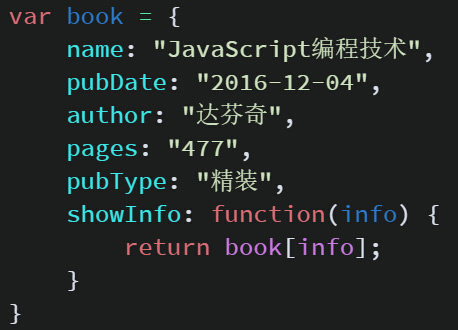
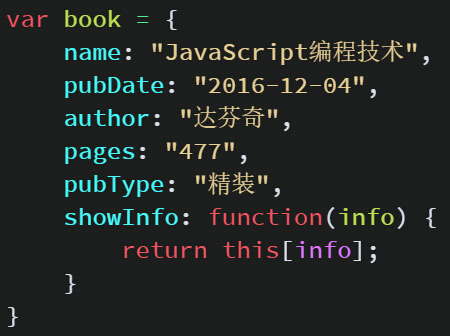
微调了JS数组的内容，对JS对象一章进行了整理，并新增、修改了一些内容

diff --git a/html-pages/javascript/javascript-08.html b/html-pages/javascript/javascript-08.html
@@ -1,7 +1,7 @@
 <root data-root="数据类型--内置对象">
-    <!-- 对象详解 -->
+    <!-- 对象概述 -->
     <section class="mt0">
-        <h3>对象详解</h3>
+        <h3>对象概述</h3>
         <p>对象（object）是JavaScript的核心概念，也是最重要的数据类型。JavaScript的所有数据都可以被视为对象。简单说，所谓对象，就是一种无序的数据集合，由若干个“键值对”（key-value，亦称属性名值对、成员等）构成。下面展示了两种对象的书写方法：</p>
         <code class="indent">
             <img src="img/code/jscode/code-js-148.jpg">
@@ -18,16 +18,22 @@
         <code class="indent">
             <img src="img/code/jscode/code-js-151.jpg">
         </code>
-        <p>对象允许的值可以是JavaScript种的任何类型（6种类型），可以是一个表达式，也可以为一个函数，当一个属性的值为一个函数的时候，通常把这个对象的属性称作“方法”（如操作字符串或数组的各种方法），它可以像使用其它对象内的属性一样使用，但是需要在后方加上一对括号。</p>
+	</section>
+    <section>
+    	<h3>对象的属性值类型</h3>
+        <p>对象允许的值可以是JavaScript种的任何类型（6种类型），可以是一个表达式，也可以为一个函数，当一个属性的值为一个函数的时候，通常把这个对象的属性称作“<em>方法</em>”（如操作字符串或数组的各种方法），它可以像使用其它对象内的属性一样使用，但是需要在后方加上一对括号。</p>
         <code class="indent">
             <img src="img/code/jscode/code-js-152.jpg">
         </code>
-        <p>定义了这样一个包含了对象之后，就可以在程序中使用了（作用域仍然只分全局和函数的作用域）。为了直观展现运行结果，我们依次对上面定义的这个对象的各个属性在控制台运行程序后进行访问或使用。</p>
+        <p>定义了这样一个包含了各种类型数据的对象之后，就可以在程序中使用了（作用域仍然只分全局和函数的作用域）。为了直观展现运行结果，我们依次对上面定义的这个对象的各个属性在控制台运行程序后进行访问或使用。</p>
         <code class="indent">
             <img src="img/code/jscode/code-js-153.jpg">
         </code>
         <p>可以发现，我们现在对象中定义属性直接可以被像一个变量一样使用了，只不过是使用的时候多了一个点“.”，将普通变量的“=”号换成了“:”号而已，除此之外基本没有任何不同。</p>
-        <p>当然，和作为数组形式展现的对象一样，普通对象也可以先声明再设置属性。</p>
+	</section>
+    <section>
+    	<h3>对象的赋值</h3>
+        <p>作为数组形式展现的对象一样，普通对象也可以先声明再设置属性。</p>
         <code class="indent">
             <img src="img/code/jscode/code-js-154.jpg">
         </code>
@@ -39,6 +45,9 @@
         <code class="indent">
             <img src="img/code/jscode/code-js-156.jpg">
         </code>
+	</section>
+    <section>
+    	<h3>对象属性值读取的两种方式</h3>
         <p>对于对象属性的读取，主要有两种方式，一种是“对象.属性”的格式，另一种是“对象[属性]”的格式。但是这两种方法在有些情况下并非等价的，就是如果属性是<em>数值型</em>的话不能采用第一种加“.”的形式，只能写成第二种形式。如果属性是<em>字符串</em>的话，两种形式都可以使用，但是使用第二种的话需要再在方括号内加上一对引号，否则会被视作一个变量。正确示例：</p>
         <code class="indent">
             <img src="img/code/jscode/code-js-157.jpg">
@@ -57,16 +66,50 @@
             <img src="img/code/jscode/code-js-160.jpg">
         </code>
         <p>如果讲上例中的“book[link]”换成“book.link”的话，该功能是无法完成的，无论配置任何参数返回的都将是undefined。正是因为使用“[]”的形式有接收变量的作用，这为我们以后封装具有对象的函数提供了便利。但若所使用对象不涉及到变量，还是建议使用“.”的形式对属性访问更加便捷高效。</p>
+        <p>看完上面的示例后，请自己做一个试验，将“book”这个对象仿照的写一遍，然后将对象内的“showInfo()”这个方法内的“book”一词改为“this”，然后传递对象内其它的属性名的字符串作为参数调用该方法，观察是什么样的结果。</p>
         <p>对于使用“[]”访问对象的属性还有一点需要补充，就是若对象是一个数组的话还可以使用<em>运算表达式</em>去访问数组内的内容。这对于实现一些复杂的需求会有一定程度的帮助，我们看来这几个简单例子：</p>
         <code class="indent">
             <img src="img/code/jscode/code-js-161.jpg">
         </code>
         <p>示例中最后三个完全一样的表达式“arr[Math.round(Math.random() * (arr.length - 1))]”得出的结果却不相同，是因为里面用到了<em>Math</em>函数内的取0~1之间的随机数方法<em>random()</em>，外层用该函数的“四舍五入”方法<em>round()</em>保证取出的数是整数。整个“[]”取出的数为整个数组下标从0到length-1（最大下标）之间的随机下标。</p>
+	</section>
+    <section>
+    	<h3>属性名数组Object.keys()</h3>
         <p>和查看所有数组的下标一样，利用<em>Object.keys(obj)</em>方法可以查看对象所有的属性名，返回的结果是一个数组。</p>
         <code class="indent">
             <img src="img/code/jscode/code-js-162.jpg">
         </code>
         <p>通过上面的示例可以发现，利用这个内置对象Object的keys()方法，我们可以“玩出”非常多的花样，不仅可以像数组那样通过“length”属性（对象本身是没有length这个属性的）获取到对象的属性个数，还可以像数组那样，通过下标去访问对象内的属性值。单是获取对象属性个数这一点来讲，这个方法会被我们用“计数器”+“for-in遍历”要显得“干净”得多。</p>
+        <p>现在我们通过在对象的原型链上添加一个“eq()”方法来模仿像<em>jQuery</em>那样通过“eq(index)”方法（方法内的“index”表示对象下标）来访问jQuery对象的指定元素。仍旧采用上面的“book”对象进行演示：</p>
+        <code class="indent">
+            <img src="img/code/jscode/code-js-296.jpg">
+        </code>
+        <p>通过示例可以发现，现在的对象已经可以使用下标进行访问了，再加上通过Object.keys()方法本身就可以间接去获取对象的属性个数（获取到属性名集合的长度属性），这就使得通过普通的循环语句（非for-in语句）来遍历一个对象成为了可能。</p>
+	</section>
+	<!-- 章节练习 -->
+    <section class="unitPractice">
+        <h3>&lt;章节练习一&gt;</h3>
+        <p>声明一个名为“roleInfo”的对象：</p>
+        <p>1、属性名分别为：id、name、attack、defense、speed、hp、mp、skill；</p>
+        <p>2、值分别是：lol-119、"德玛西亚之力"、36、42、66、2400、null、["坚韧（被动）","致命打击","勇气","审判","德玛西亚正义"];</p>
+        <p>3、通过在原型链上添加一个“eq()”方法，然后通过Object.keys()方法来获取对象的“长度”，最后通过for循环将对象内的所有值输出在页面内一个id为“galen”的&lt;div&gt;里。</p>
+        <p>&lt;注意&gt;若值为“null”，在页面内应该显示为“无”，若值为一个数组（通过方法“Array.isArray()”进行判定），需要将数组内的项单独输出来，而不是输出整个数组。</p>
+        <p>页面中的DIV结构如下：</p>
+		<pre>
+&lt;div id="galen"&gt;
+	&lt;label&gt;ID：&lt;/label&gt;&lt;span&gt;&lt;span&gt;
+	&lt;label&gt;角色名：&lt;/label&gt;&lt;span&gt;&lt;span&gt;
+	&lt;label&gt;攻击力：&lt;/label&gt;&lt;span&gt;&lt;span&gt;
+	&lt;label&gt;防御力：&lt;/label&gt;&lt;span&gt;&lt;span&gt;
+	&lt;label&gt;速度：&lt;/label&gt;&lt;span&gt;&lt;span&gt;
+	&lt;label&gt;血量：&lt;/label&gt;&lt;span&gt;&lt;span&gt;
+	&lt;label&gt;魔法：&lt;/label&gt;&lt;span&gt;&lt;span&gt;
+	&lt;label&gt;技能：&lt;/label&gt;&lt;span&gt;&lt;span&gt;;span&gt;&lt;span&gt;;span&gt;&lt;span&gt;span&gt;&lt;span&gt;span&gt;&lt;span&gt;
+&lt;/div&gt;
+		</pre>
+    </section>
+    <section>
+    	<h3>对象的“增、删、改、查”</h3>
         <p>对于数据操作来讲，无非就是四种操作“增、删、改、查”。对于对象来讲，“增”就是为一个对象新增一个之前不存在的属性名，然后进行赋值；“改”就是对对象已经存在的属性名进行从新赋值，达到一个修改原始对象的效果；而“查”就是简单地通过对象的属性名访问即可（当然也可以通过对“[]”传变量实现访问）。这些我们之前都讲解过，但对于“<em>删</em>”来讲稍微有些特殊，需要用到关键字“<em>delete</em>”进行操作，为了说明问题，我们还是对这些操作进行回顾并在其中列出“delete”的使用方式。原数组如下：</p>
         <code class="indent">
             <img src="img/code/jscode/code-js-163.jpg">
@@ -105,17 +148,37 @@
                 </code>
             </dd>
         </dl>
-        <p>当不知一个对象的属性是否声明过，使用<em>in</em>运算符来进行判断是再好不过的选择了（选用对象仍是之前的“书籍”）。</p>
+	</section>
+    <section>
+        <h3>判断一个属性是否存在于对象</h3>
+        <p>当不知一个对象的属性是否声明过（或不知某个属性是否存在于指定的对象内），使用“<em>in</em>”运算符来进行判断是再好不过的选择了（选用对象仍是之前的“书籍”）。</p>
         <code class="indent">
             <img src="img/code/jscode/code-js-168.jpg">
         </code>
+        <p>in运算符返回一个布尔值，它不区分该属性是对象自身的属性，还是继承的属性。若要区分该属性是实例化对象的属性，还是继承而来的属性需要使用“hasOwnProperty()”方法，该方法返回的仍然是一个布尔值。例如现在我们先给对象原型链添加一个属性，并创建一个对象：</p>
+        <code class="indent">
+            <img src="img/code/jscode/code-js-297.jpg">
+        </code>
+        <p>然后在控制台中输出所有的属性值，然后再通过该方法进行判断：</p>
+        <code class="indent">
+            <img src="img/code/jscode/code-js-298.jpg">
+        </code>
+        <p>通过观察示例可以发现，虽然无论是对象本身的属性还是继承而来的属性都可以正常输出结果值，但是区别在于本来存在于对象中的属性“brand”和“price”通过hasOwnProperty()方法判断后返回的布尔值是true，而通过对象的原型链继承而来的属性“effect”执行方法后返回的布尔值为false。</p>
+        <p>这样一来，我们就可以在执行for-in遍历语句的时候决定是否应该对继承而来的属性进行指定的操作了。</p>
+    </section>
+    <!-- 章节练习 -->
+    <section class="unitPractice">
+        <h3>&lt;章节练习二&gt;</h3>
+        <p>模仿上例，为对象原型链添加一个方法，并自定义一个对象：</p>
+        <p>1、通过for-in遍历语句在控制内输出对象的全部属性的值；</p>
+        <p>2、通过for-in遍历语句在控制内输出对象的非继承属性的值。</p>
     </section>
     <!-- 对象操作 -->
     <section>
-        <h3>对象操作</h3>
+        <h3>对象的原型链</h3>
         <p>JavaScript原生提供一个Object对象，所有其他对象都继承自这个对象。Object本身也是一个构造函数，可以直接通过它来生成新对象。基本语法为：</p>
         <p><em>var obj = new Object();</em></p>
-        <p>对象型数据有一个比较有趣的特点就是它具有<em>原型类</em>（prototype），任何对象都能通过原型类来拓展自己的功能，这一点，我们在“数组操作”一节中的“数组求和”功能里就已经见识到了。数组之所以可以通过原型类来扩展自己的功能，是因为数组本身也属于“对象”。我们再来看一个关于内置对象通过原型类扩展自己的<em>方法</em>的简单例子，基本代码如下：</p>
+        <p>对象型数据有一个比较有趣的特点就是它具有<em>原型链</em>（prototype，也有称“原型类”），任何对象都能通过原型链来拓展自己的功能。我们来看一个关于内置对象通过原型链扩展自己的<em>方法</em>的简单例子，基本代码如下：</p>
         <code class="indent">
             <img src="img/code/jscode/code-js-169.jpg">
         </code>
@@ -123,13 +186,16 @@
         <code class="indent">
             <img src="img/code/jscode/code-js-170.jpg">
         </code>
-        <p>上面的代码中，首先是给内置对象Object添加了一个原型类的方法，该方法内“keys()”方法的作用我们在上一节“对象详解”中已经学习过，是用于讲对象的属性名进行返回，然后形成一个数组。而在该方法之前有一个关键字<em>this</em>，它表示使用该原型方法的对象的本身，如“obj1”在使用“showAttr()”方法时，“this”指的就是“obj1”。</p>
-        <p>showAttr()这个方法是我们的一个自定义名称，我们可以根据需要，给原型类添加任意的自定义方法。这样一来，以后所有的新建对象都可以使用这些方法，大大地减少了代码量和也减少了对方法参数的配置。可以把原型类内我们自定义新建的方法理解为对象的公共方法，任何对象在同一个作用域内都可以对其进行使用。</p>
-        <p>其实，也并非只有数组（Array）和普通对象（Object）才是所谓的“对象”，可以将JavaScript任何允许的数据类型放置于<em>Object()</em>方法的参数内都可以转换成为一个对象，这样的对象称作“<em title="变量的赋值操作是对值的引用">包装对象</em>”，这在我们上一章的课程内。</p>
+        <p>上面的代码中，首先是给内置对象Object添加了一个原型链的方法，该方法内“keys()”方法的作用我们在上一节“对象详解”中已经学习过，是用于讲对象的属性名进行返回，然后形成一个数组。而在该方法之前有一个关键字<em>this</em>，它表示使用该原型方法的对象的本身，如“obj1”在使用“showAttr()”方法时，“this”指的就是“obj1”。</p>
+        <p>showAttr()这个方法是我们的一个自定义名称，我们可以根据需要，给原型链添加任意的自定义方法。这样一来，以后所有的新建对象都可以使用这些方法，大大地减少了代码量和也减少了对方法参数的配置。可以把原型链内我们自定义新建的方法理解为对象的公共方法，任何对象在同一个作用域内都可以对其进行使用。</p>
+	</section>
+    <section>
+        <h3>内置对象</h3>
+        <p>其实，也并非只有数组（Array）和普通对象（Object）才是所谓的“对象”，可以将JavaScript任何允许的数据类型放置于<em>Object()</em>方法的参数内都可以转换成为一个对象，这样的对象称作“<em title="变量的赋值操作是对值的引用">包装对象</em>”，这在我们上一章的课程里已经见过了。</p>
         <code class="indent">
             <img src="img/code/jscode/code-js-171.jpg">
         </code>
-        <p>但如果，使用Object()方法为参数内配置一个JavaScript的“<em title="变量的赋值操作是对内存地址的引用">内置对象</em>”，那返回的就是该对象本身。</p>
+        <p>但如果使用Object()方法为参数内配置一个数据，或该数据的变量，如果返回的是该数据本身的值，那我们将其称作“<em title="变量的赋值操作是对内存地址的引用">内置对象</em>”。</p>
         <code class="indent">
             <img src="img/code/jscode/code-js-172.jpg">
         </code>
@@ -145,17 +211,21 @@
         <code class="indent">
             <img src="img/code/jscode/code-js-175.jpg">
         </code>
-        <p>调用我们自定义的原型类方法后，在控制台中的返回值结果分别如下：</p>
+        <p>调用我们自定义的原型链方法后，在控制台中的返回值结果分别如下：</p>
         <code class="indent">
             <img src="img/code/jscode/code-js-176.jpg">
         </code>
+        <p>这样一来，就可以通过我们给对象原型链新增的这个isObject()方法来判断一个操作数或变量是否为一个“内置对象”了。上面的自定义方法，是将需要判定对象类型的变量放置于参数内，思考一下若需要将变量或对应的数据放置于方法之前作为一个对象的操作形式应该这么做（即：obj.isObject()的格式）。</p>
+	</section>
+    <section>
+        <h3>数据类型的精确判定</h3>
         <p>上一章我们在讲解“字符串操作”的时候提到过一个方法“<em>String()</em>”，它可以将任何类型的数据都转换成字符串，但在转换数组和对象时，出现了点特殊情况（可以自行回顾该章节的内容），即其它类型的数据都变成了和原始声明时基本一样的数据，只是加上了引号，而对象出现的结果却是“<em>[object Object]</em>”，其实这里的第一个值表示该值是一个对象（之前提到过，JavaScript中任何值都可以成为对象），第二个值为该类型值的构造函数（有些对象是通过包装而来的）。当然，除了将需要转换字符串的内容放置于String()方法的参数内，还能通过对象属性的方式来使用该方法，它的写法是“toString()”，不需要配置参数。</p>
         <code class="indent">
             <img src="img/code/jscode/code-js-177.jpg">
         </code>
-        <p>可以从运行结果中看出来，这和我们上次使用的“String()”方法得出的结果完全一样。但其实作为一个对象的属性的“toString()”方法来讲自然会有一些不同的。它其实是对象原型类的一个方法，语法如下：</p>
+        <p>可以从运行结果中看出来，这和我们上次使用的“String()”方法得出的结果完全一样。但其实作为一个对象的属性的“toString()”方法来讲自然会有一些不同的。它其实是对象原型链的一个方法，语法如下：</p>
         <p><em>Object.prototype.toString</em></p>
-        <p>既然是原型类的方法，那很多时候它们还有自己的“<em title="内部的实现相当于一个函数闭包">子方法</em>”，如“<em>call()</em>”方法。基本使用方法如下：</p>
+        <p>既然是原型链的方法，那很多时候它们还有自己的“<em title="内部的实现相当于一个函数闭包">子方法</em>”，如“<em>call()</em>”方法。基本使用方法如下：</p>
         <code class="indent">
             <img src="img/code/jscode/code-js-178.jpg">
         </code>
@@ -179,10 +249,11 @@
     </section>
     <!-- 章节练习 -->
     <section class="unitPractice">
-        <h3>&lt;章节练习&gt;</h3>
+        <h3>&lt;章节练习三&gt;</h3>
         <p>通过已经学习过的方法完成以下数组和对象的“克隆”，克隆后的数组和对象的值发生改变后，对原数组和对象的值不产生影响：</p>
         <p>1、数组：["HTML","CSS","JavaScript"]；</p>
-        <p>2、对象：{name: "JS", fullName: "JavaScript", duty: "行为控制"}</p>
+        <p>2、对象：{name: "JS", fullName: "JavaScript", duty: "行为控制"}；</p>
+        <p>3、实现一个自定义的方法用于判定一个变量是否是一个内置对象，需要使用“data.isBuiltinObject()”的形式，其中data为你需要判断的数据。</p>
     </section>
 </root>
 

diff --git a/css/common.min.css b/css/common.min.css
@@ -1,1 +1,1 @@
-@charset "UTF-8";.module-welcome,code,iframe.codeEffect,iframe.codeEffect-unauto,output,root[data-root]{-webkit-box-sizing:border-box;-moz-box-sizing:border-box;box-sizing:border-box}.content .loading,.module-welcome,.module-welcome p{position:absolute}.content .loading span,author,code img,iframe.codeEffect,iframe.codeEffect-unauto,img.dateImg,output,root[data-root],root[data-root] ul.corresNouns>li>span{display:block}a,body,html,input,textarea{font-family:"微软雅黑",arial}.module-welcome{width:560px;height:360px;background-color:#fef9f8;background-position:center;border:1px solid #fff;border-right-color:#e3e4e5;border-bottom-color:#e3e4e5;border-radius:300px 3px;text-align:left;color:#3c4d86;left:50%;top:50%;margin-left:-320px;margin-top:-200px;box-shadow:0 6px 16px rgba(34,34,34,.34);animation:rotateWelcome 3s linear infinite alternate}@keyframes rotateWelcome{0%{transform:rotate(15deg);background-color:#fef9f8}50%{transform:rotate(0);background-color:#f3f9f8}100%{transform:rotate(-15deg);background-color:#e3f9f1}}@-webkit-keyframes rotateWelcome{0%{transform:rotate(15deg);background-color:#fef9f8}50%{transform:rotate(0);background-color:#f3f9f8}100%{transform:rotate(-15deg);background-color:#e3f9f1}}root[data-root] .module-welcome p{width:auto;text-indent:1em;font-size:48px;line-height:52px;font-family:"方正舒体","华文行楷","楷体";padding:48px;top:50%;margin-top:-98px}root[data-root] .module-welcome p.longTxt{margin-top:-138px}.mt-1{margin-top:-1px}.mt0{margin-top:0}.mt10{margin-top:10px}.mt15{margin-top:15px}.mt20{margin-top:20px}.mt25{margin-top:25px}.mt30{margin-top:30px}root[data-root]{width:100%;min-height:100%;background:url(../img/bgi/bg-content.jpg) #fff;padding:12px 12px 150px}root[data-root] section{margin-top:50px}root[data-root] section:first-of-type{margin-top:0}root[data-root] h3{line-height:30px;font-size:32px;margin-top:10px;margin-bottom:10px;color:#11278a}root[data-root] h4{line-height:30px;font-size:22px;margin-top:14px;margin-bottom:10px;color:#333}root[data-root] p{line-height:1.48;text-indent:2em;font-size:20px;color:#555;margin:18px 0}root[data-root] p.noindent{text-indent:0}root[data-root] dl.attrExplain dd em,root[data-root] p cite em,root[data-root] p em,root[data-root] ul li em{font-size:24px;color:#0b933b}root[data-root] p cite{color:#8da7b9}root[data-root] p cite.indent{margin-left:2em;margin-right:2em;display:block}root[data-root] a{text-decoration:none;color:#136ded}root[data-root] section.unitPractice{background-color:#41280e;border:2px solid #654523;border-right:2px solid #1c0f02;border-bottom:2px solid #1c0f02;border-radius:15px;padding:12px 20px;color:#f2ebe7;box-shadow:0 10px 8px rgba(123,100,86,.33);margin-top:100px}root[data-root] section.unitPractice h3,root[data-root] section.unitPractice h4,root[data-root] section.unitPractice p{color:#f2ebe7}root[data-root] section.unitPractice h3{border-bottom:1px dotted #fff;font-size:22px}root[data-root] section.unitPractice h4{font-size:22px}root[data-root] section.unitPractice p{margin-top:.5em;margin-bottom:.5em;text-indent:0}root[data-root] dl.attrExplain{margin-left:4em;margin-right:4em}root[data-root] dl.attrExplain dt{color:#2a90d1;background:url(../img/content/sign-dt.png) 0 8px no-repeat;text-indent:24px;font-size:24px;margin-left:-24px;margin-bottom:4px}root[data-root] dl.attrExplain dd{font-size:20px;margin-bottom:12px}root[data-root] ul{list-style-image:url(../img/content/sign-dt-ul.png);margin-top:4px;margin-bottom:4px;list-style-position:outside;margin-left:1.6em}root[data-root] ul.indent{margin:0 4em}root[data-root] ul li{line-height:160%;font-size:20px}root[data-root] ul.corresNouns{list-style:none}root[data-root] ul.corresNouns>li{width:340px;height:30px;position:relative;overflow:hidden}root[data-root] ul.corresNouns>li>span{line-height:30px;background-color:#fff;white-space:nowrap;position:absolute}root[data-root] ul.corresNouns>li>span:first-child{top:0;left:0}root[data-root] ul.corresNouns>li>span:first-child:after{content:" ·······················································································"}root[data-root] ul.corresNouns>li>span:last-child{background-color:#fff;top:0;right:0}root[data-root] ul.corresNouns>li>span:last-child:before{content:" ";display:inline-block;width:6px}root[data-root] table{width:99%;background-color:#fff;border-collapse:collapse;margin:24px auto;border:2px solid #11278a;box-shadow:0 0 0 6px rgba(17,39,138,.2)}root[data-root] table td,root[data-root] table th{padding:8px 0;border:1px solid #2a90d1;text-align:center;transition-duration:.2s;box-sizing:border-box}root[data-root] table.normal{font-size:20px;color:#233d96;cursor:default}root[data-root] table.normal tr:nth-child(odd){background-color:#f4f9ff}root[data-root] table.normal tr:nth-child(even){background-color:#fff}root[data-root] table.normal tr th{background-color:#1f3f98;font-size:18px;color:#fff}root[data-root] table.perc50{width:50%}root[data-root] table.perc60{width:60%}root[data-root] table.perc70{width:70%}root[data-root] table.perc80{width:80%}root[data-root] table.perc90{width:90%}root[data-root] table.cols-3 td,root[data-root] table.cols-3 th{width:33.33333333%}root[data-root] table.cols-4 td,root[data-root] table.cols-4 th{width:25%}root[data-root] table.cols-5 td,root[data-root] table.cols-5 th{width:20%}root[data-root] table.cols-6 td,root[data-root] table.cols-6 th{width:16.66666666%}.content .loading{width:90px;height:30px;left:50%;top:50%;margin-left:-45px;margin-top:-15px}.content .loading span{width:16px;height:16px;background-color:#11278a;border-radius:8px;margin-top:7px;margin-right:21px;float:left;animation:loadingAnimate linear .45s infinite 0s alternate}code img,img.dateImg{width:auto;max-width:100%}.content .loading span:nth-child(2){animation-delay:.15s}.content .loading span:nth-child(3){animation-delay:.3s}.content .loading span:last-child{margin-right:0}@keyframes loadingAnimate{0%{transform:scale(1);opacity:.5}100%{transform:scale(1.5);opacity:1}}@-webkit-keyframes loadingAnimate{0%{transform:scale(1) opacity: .5}100%{transform:scale(1.5);opacity:1}}code{margin-bottom:15px;border:1px solid #ccc;border-radius:15px;overflow:hidden;display:inline-block}code.indent{margin-left:3em}code img{height:auto;-webkit-box-shadow:0 4px 6px rgba(123,123,123,.33);box-shadow:0 4px 6px rgba(123,123,123,.33)}root[data-root] dl.attrExplain dd code{margin-bottom:0}img.dateImg{margin:10px auto}img.dateImg.w80p{width:80%}author{text-align:right;font-size:18px;line-height:160%;color:#999;margin-top:50px}iframe.codeEffect,iframe.codeEffect-unauto,output{width:100%;height:auto;background-color:#fff;border:1px solid #ddd;border-radius:15px;box-shadow:0 4px 4px rgba(182,186,188,.33);padding:10px;margin-bottom:15px;font-size:20px;color:#000;overflow:hidden}supcss3,suph5,unsupcss3,unsuph5{width:24px;height:24px;display:inline-block;vertical-align:middle;position:relative;top:-2px}suph5{background:url(../img/content/h5_support.gif) no-repeat}unsuph5{background:url(../img/content/h5_unSupport.gif) no-repeat}supcss3{background:url(../img/content/css3_support.gif) no-repeat}unsupcss3{background:url(../img/content/css3_unSupport.gif) no-repeat}a[download]{width:128px;height:128px;display:inline-block;background:no-repeat;margin-left:2.4em}a[download]:hover{background-position:-128px 0}a[download].brackets{background-image:url(../img/content/brackets-logo.png)}a[download].brackets-extension{background-image:url(../img/content/brackets-extensions.png)}::-webkit-scrollbar{width:10px}::-webkit-scrollbar-track-piece{background-color:#f0f0f0;box-shadow:inset 0 0 4px rgba(15,25,78,.1);margin:0}::-webkit-scrollbar-thumb{width:10px;min-height:10px;background-color:#11278a;border-radius:7px}::-webkit-scrollbar-thumb:vertical:hover{background-color:#2a90d1;box-shadow:0 2px 8px rgba(59,63,80,.8)}
+@charset "UTF-8";.module-welcome,code,iframe.codeEffect,iframe.codeEffect-unauto,output,root[data-root]{-webkit-box-sizing:border-box;-moz-box-sizing:border-box;box-sizing:border-box}.content .loading,.module-welcome,.module-welcome p{position:absolute}.content .loading span,author,code img,iframe.codeEffect,iframe.codeEffect-unauto,img.dateImg,output,root[data-root],root[data-root] ul.corresNouns>li>span{display:block}a,body,html,input,textarea{font-family:"微软雅黑",arial}.module-welcome{width:560px;height:360px;background-color:#fef9f8;background-position:center;border:1px solid #fff;border-right-color:#e3e4e5;border-bottom-color:#e3e4e5;border-radius:300px 3px;text-align:left;color:#3c4d86;left:50%;top:50%;margin-left:-320px;margin-top:-200px;box-shadow:0 6px 16px rgba(34,34,34,.34);animation:rotateWelcome 3s linear infinite alternate}@keyframes rotateWelcome{0%{transform:rotate(15deg);background-color:#fef9f8}50%{transform:rotate(0);background-color:#f3f9f8}100%{transform:rotate(-15deg);background-color:#e3f9f1}}@-webkit-keyframes rotateWelcome{0%{transform:rotate(15deg);background-color:#fef9f8}50%{transform:rotate(0);background-color:#f3f9f8}100%{transform:rotate(-15deg);background-color:#e3f9f1}}root[data-root] .module-welcome p{width:auto;text-indent:1em;font-size:48px;line-height:52px;font-family:"方正舒体","华文行楷","楷体";padding:48px;top:50%;margin-top:-98px}root[data-root] .module-welcome p.longTxt{margin-top:-138px}.mt-1{margin-top:-1px}.mt0{margin-top:0}.mt10{margin-top:10px}.mt15{margin-top:15px}.mt20{margin-top:20px}.mt25{margin-top:25px}.mt30{margin-top:30px}root[data-root]{width:100%;min-height:100%;background:url(../img/bgi/bg-content.jpg) #fff;padding:12px 12px 150px}root[data-root] section{margin-top:50px}root[data-root] section:first-of-type{margin-top:0}root[data-root] h3{line-height:30px;font-size:32px;margin-top:10px;margin-bottom:10px;color:#11278a}root[data-root] h4{line-height:30px;font-size:22px;margin-top:14px;margin-bottom:10px;color:#333}root[data-root] p{line-height:1.48;text-indent:2em;font-size:20px;color:#555;margin:18px 0}root[data-root] p.noindent{text-indent:0}root[data-root] dl.attrExplain dd em,root[data-root] p cite em,root[data-root] p em,root[data-root] ul li em{font-size:24px;color:#0b933b}root[data-root] p cite{color:#8da7b9}root[data-root] p cite.indent{margin-left:2em;margin-right:2em;display:block}root[data-root] a{text-decoration:none;color:#136ded}root[data-root] section.unitPractice{background-color:#2a1907;border:2px solid #654523;border-right:2px solid #1c0f02;border-bottom:2px solid #1c0f02;border-radius:15px;padding:12px 20px;color:#f2ebe7;box-shadow:0 10px 8px rgba(123,100,86,.33);margin-top:100px}root[data-root] section.unitPractice h3,root[data-root] section.unitPractice h4,root[data-root] section.unitPractice p{color:#f2ebe7}root[data-root] section.unitPractice h3{border-bottom:1px dotted #fff;font-size:22px}root[data-root] section.unitPractice h4{font-size:22px}root[data-root] section.unitPractice p{margin-top:.5em;margin-bottom:.5em;text-indent:0}root[data-root] dl.attrExplain{margin-left:4em;margin-right:4em}root[data-root] dl.attrExplain dt{color:#2a90d1;background:url(../img/content/sign-dt.png) 0 8px no-repeat;text-indent:24px;font-size:24px;margin-left:-24px;margin-bottom:4px}root[data-root] dl.attrExplain dd{font-size:20px;margin-bottom:12px}root[data-root] ul{list-style-image:url(../img/content/sign-dt-ul.png);margin-top:4px;margin-bottom:4px;list-style-position:outside;margin-left:1.6em}root[data-root] ul.indent{margin:0 4em}root[data-root] ul li{line-height:160%;font-size:20px}root[data-root] ul.corresNouns{list-style:none}root[data-root] ul.corresNouns>li{width:340px;height:30px;position:relative;overflow:hidden}root[data-root] ul.corresNouns>li>span{line-height:30px;background-color:#fff;white-space:nowrap;position:absolute}root[data-root] ul.corresNouns>li>span:first-child{top:0;left:0}root[data-root] ul.corresNouns>li>span:first-child:after{content:" ·······················································································"}root[data-root] ul.corresNouns>li>span:last-child{background-color:#fff;top:0;right:0}root[data-root] ul.corresNouns>li>span:last-child:before{content:" ";display:inline-block;width:6px}root[data-root] table{width:99%;background-color:#fff;border-collapse:collapse;margin:24px auto;border:2px solid #11278a;box-shadow:0 0 0 6px rgba(17,39,138,.2)}root[data-root] table td,root[data-root] table th{padding:8px 0;border:1px solid #2a90d1;text-align:center;transition-duration:.2s;box-sizing:border-box}root[data-root] table.normal{font-size:20px;color:#233d96;cursor:default}root[data-root] table.normal tr:nth-child(odd){background-color:#f4f9ff}root[data-root] table.normal tr:nth-child(even){background-color:#fff}root[data-root] table.normal tr th{background-color:#1f3f98;font-size:18px;color:#fff}root[data-root] table.perc50{width:50%}root[data-root] table.perc60{width:60%}root[data-root] table.perc70{width:70%}root[data-root] table.perc80{width:80%}root[data-root] table.perc90{width:90%}root[data-root] table.cols-3 td,root[data-root] table.cols-3 th{width:33.33333333%}root[data-root] table.cols-4 td,root[data-root] table.cols-4 th{width:25%}root[data-root] table.cols-5 td,root[data-root] table.cols-5 th{width:20%}root[data-root] table.cols-6 td,root[data-root] table.cols-6 th{width:16.66666666%}.content .loading{width:90px;height:30px;left:50%;top:50%;margin-left:-45px;margin-top:-15px}.content .loading span{width:16px;height:16px;background-color:#11278a;border-radius:8px;margin-top:7px;margin-right:21px;float:left;animation:loadingAnimate linear .45s infinite 0s alternate}code img,img.dateImg{width:auto;max-width:100%}.content .loading span:nth-child(2){animation-delay:.15s}.content .loading span:nth-child(3){animation-delay:.3s}.content .loading span:last-child{margin-right:0}@keyframes loadingAnimate{0%{transform:scale(1);opacity:.5}100%{transform:scale(1.5);opacity:1}}@-webkit-keyframes loadingAnimate{0%{transform:scale(1) opacity: .5}100%{transform:scale(1.5);opacity:1}}code{margin-bottom:15px;border:1px solid #ccc;border-radius:15px;overflow:hidden;display:inline-block}code.indent{margin-left:3em}code img{height:auto;-webkit-box-shadow:0 4px 6px rgba(123,123,123,.33);box-shadow:0 4px 6px rgba(123,123,123,.33)}root[data-root] dl.attrExplain dd code{margin-bottom:0}img.dateImg{margin:10px auto}img.dateImg.w80p{width:80%}root[data-root] pre{white-space:pre;font:20px "微软雅黑";color:#a1cdff}author{text-align:right;font-size:18px;line-height:160%;color:#999;margin-top:50px}iframe.codeEffect,iframe.codeEffect-unauto,output{width:100%;height:auto;background-color:#fff;border:1px solid #ddd;border-radius:15px;box-shadow:0 4px 4px rgba(182,186,188,.33);padding:10px;margin-bottom:15px;font-size:20px;color:#000;overflow:hidden}supcss3,suph5,unsupcss3,unsuph5{width:24px;height:24px;display:inline-block;vertical-align:middle;position:relative;top:-2px}suph5{background:url(../img/content/h5_support.gif) no-repeat}unsuph5{background:url(../img/content/h5_unSupport.gif) no-repeat}supcss3{background:url(../img/content/css3_support.gif) no-repeat}unsupcss3{background:url(../img/content/css3_unSupport.gif) no-repeat}a[download]{width:128px;height:128px;display:inline-block;background:no-repeat;margin-left:2.4em}a[download]:hover{background-position:-128px 0}a[download].brackets{background-image:url(../img/content/brackets-logo.png)}a[download].brackets-extension{background-image:url(../img/content/brackets-extensions.png)}::-webkit-scrollbar{width:10px}::-webkit-scrollbar-track-piece{background-color:#f0f0f0;box-shadow:inset 0 0 4px rgba(15,25,78,.1);margin:0}::-webkit-scrollbar-thumb{width:10px;min-height:10px;background-color:#11278a;border-radius:7px}::-webkit-scrollbar-thumb:vertical:hover{background-color:#2a90d1;box-shadow:0 2px 8px rgba(59,63,80,.8)}

diff --git a/html-pages/javascript/javascript-07.html b/html-pages/javascript/javascript-07.html
@@ -59,7 +59,7 @@
 	</section>
 	<!-- 数组判断 -->
 	<section>
-		<h3>isArray()方法</h3>
+		<h3>Array.isArray()方法</h3>
 		<p>对于数组，之前我们已经谈到过，虽然它有自己的一套格式，也有自己一套独立的方法，但在JavaScript里，它仍然只是一个object的类型（可以通过类型判断输出方法typeof()得出），若要判断一个值是否为数组，可以使用“Array.isArray()”方法来进行判断，它的返回值是一个布尔值，true表示是一个数组，否者返回false。</p>
 		<code class="indent">
 			<img src="img/code/jscode/code-js-112.jpg">
@@ -141,7 +141,7 @@
 		<code class="indent">
 			<img src="img/code/jscode/code-js-126.jpg">
 		</code>
-		<p>利用该方法的原理可以达到向指定位置<em>插入数组元素</em>的效果。第一个参数仍然是表示开始下标，第二个参数设为0，这样后续设置的参数就会出现在第一个参数下标位置之后：</p>
+		<p>利用该方法的原理可以达到向指定位置<em>插入数组元素</em>的效果。第一个参数仍然是表示开始下标，第二个参数设为0，这样后续设置的参数就会出现在第一个参数下标位置之前：</p>
 		<code class="indent">
 			<img src="img/code/jscode/code-js-127.jpg">
 		</code>

diff --git a/html-pages/javascript/javascript-10.html b/html-pages/javascript/javascript-10.html
@@ -132,7 +132,7 @@
 				</code>
 			</dd>
 
-			<dt>>Math.ceil()</dt>
+			<dt>Math.ceil()</dt>
 			<dd>对一个小数求向上取整。</dd>
 			<dd>
 				<code>
@@ -140,7 +140,7 @@
 				</code>
 			</dd>
 
-			<dt>>Math.floor()</dt>
+			<dt>Math.floor()</dt>
 			<dd>对一个小数求向下取整。</dd>
 			<dd>
 				<code>
@@ -148,7 +148,7 @@
 				</code>
 			</dd>
 
-			<dt>>Math.round()</dt>
+			<dt>Math.round()</dt>
 			<dd>对一个小数“四舍五入”取整。</dd>
 			<dd>
 				<code>
